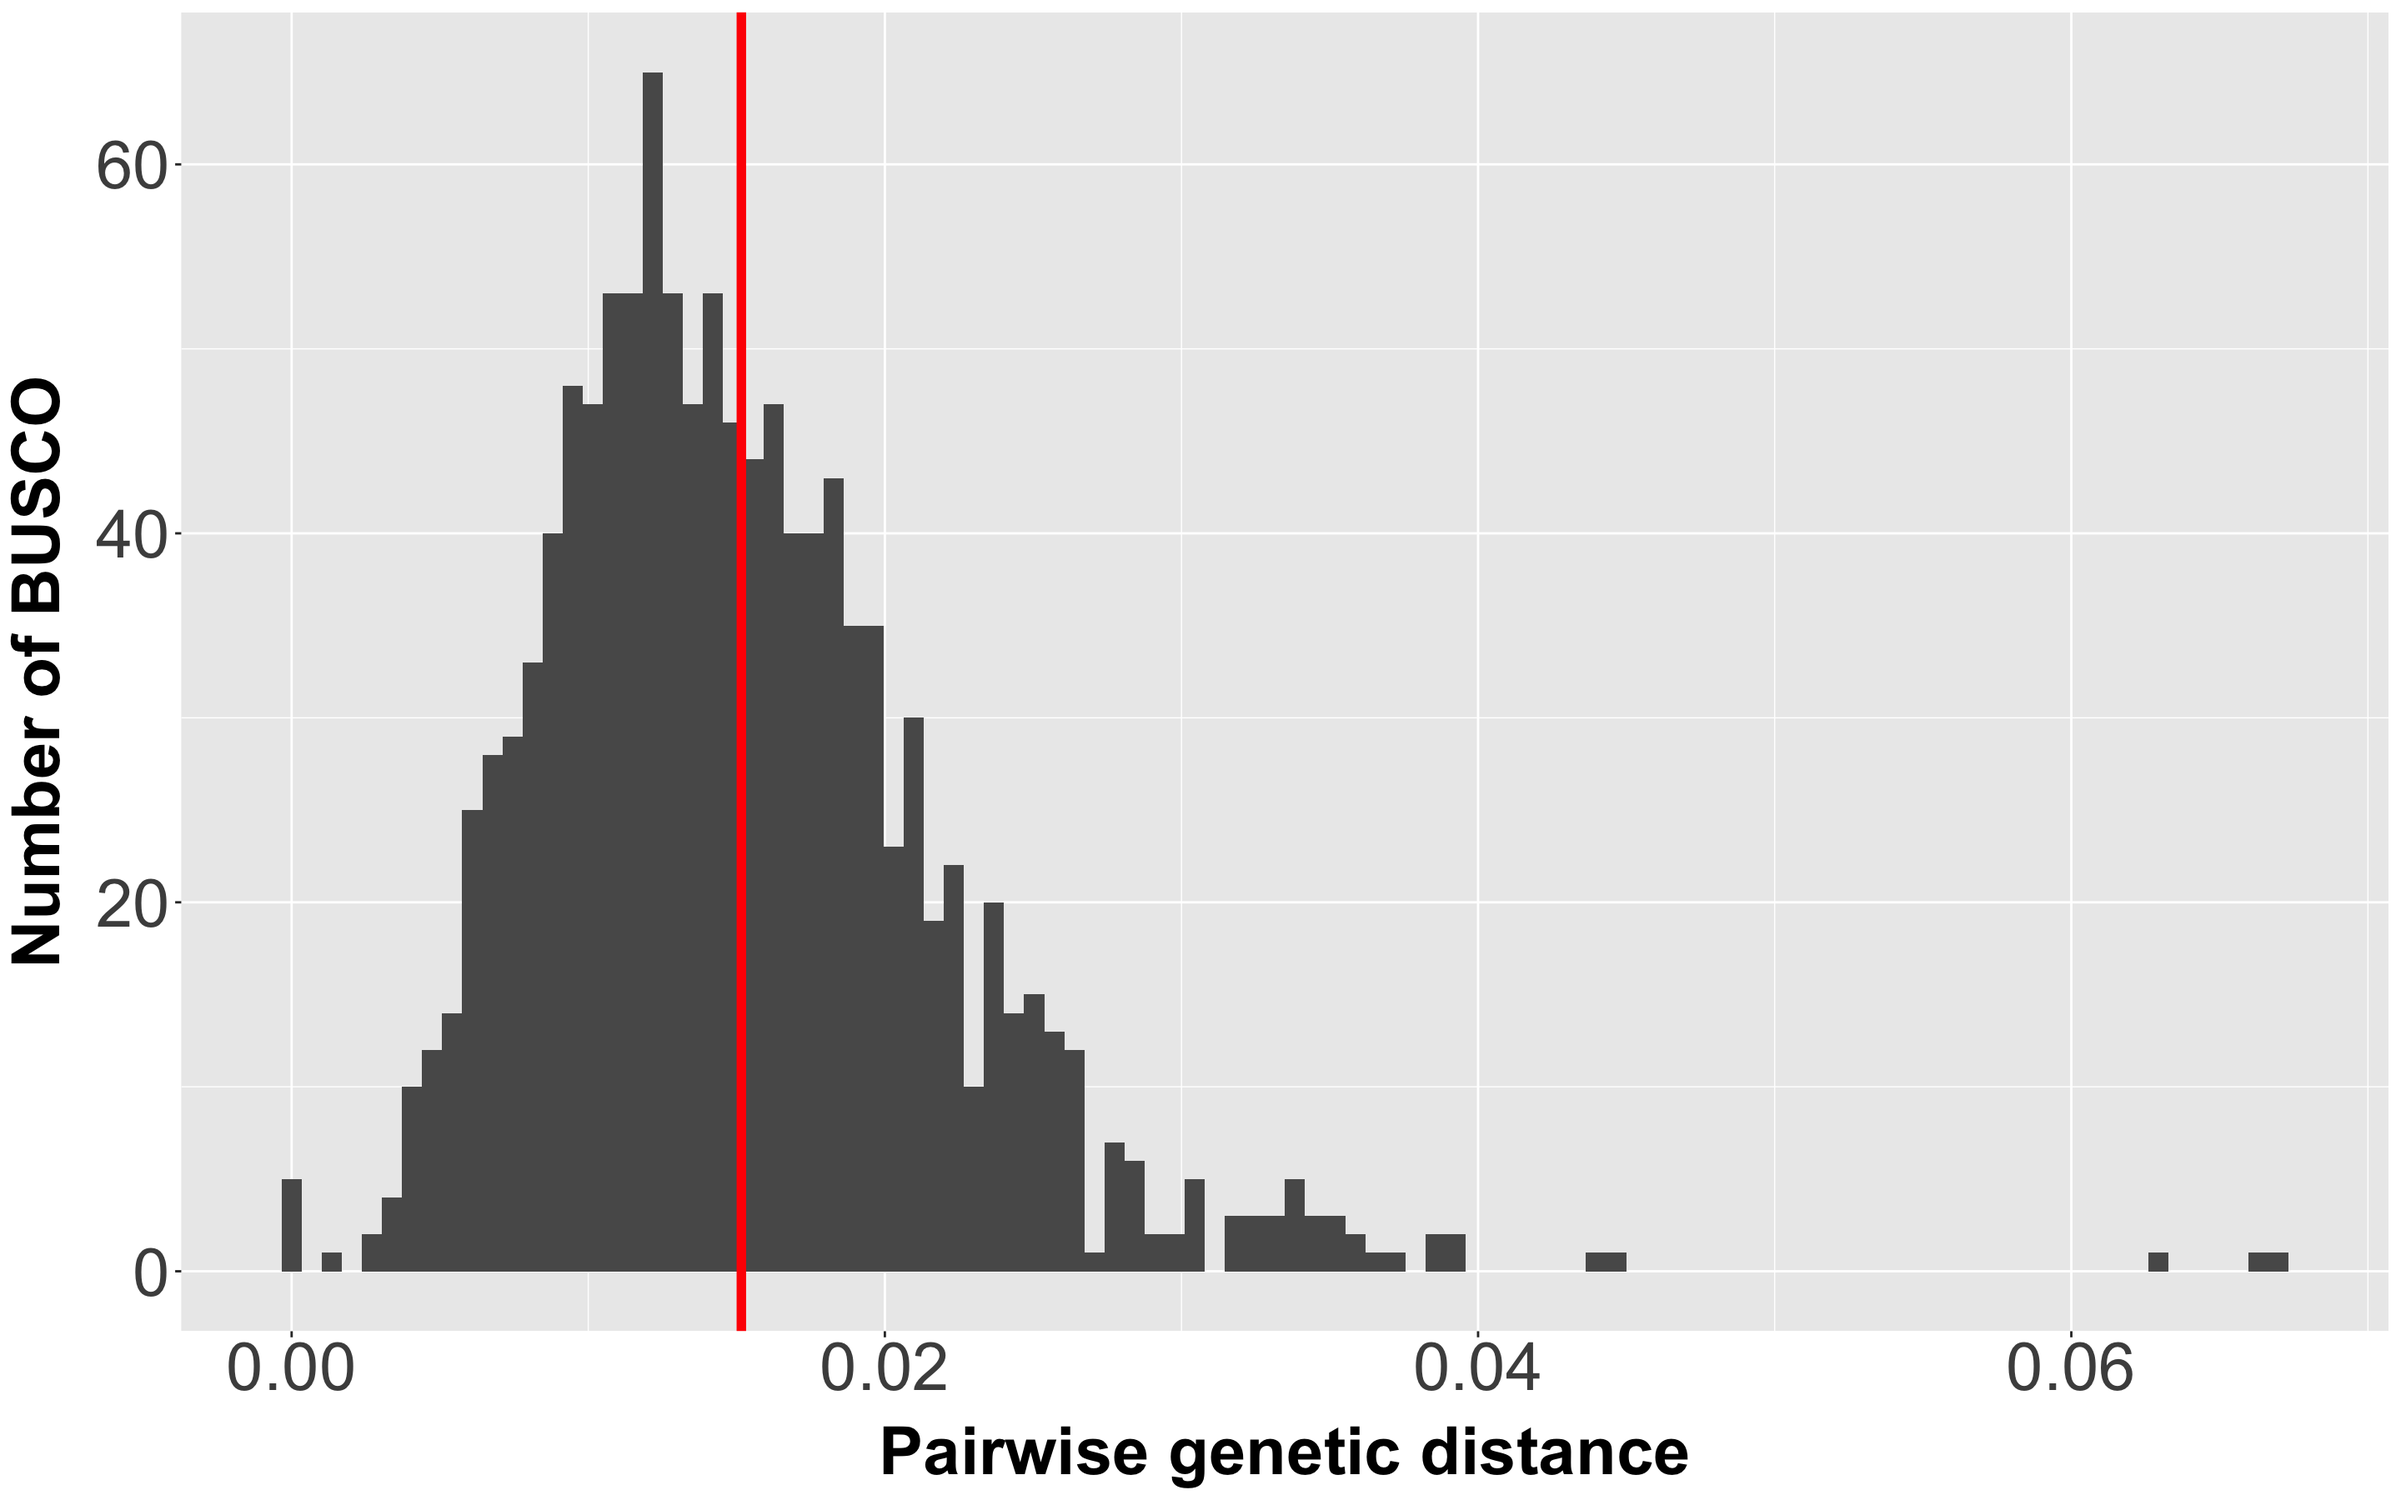
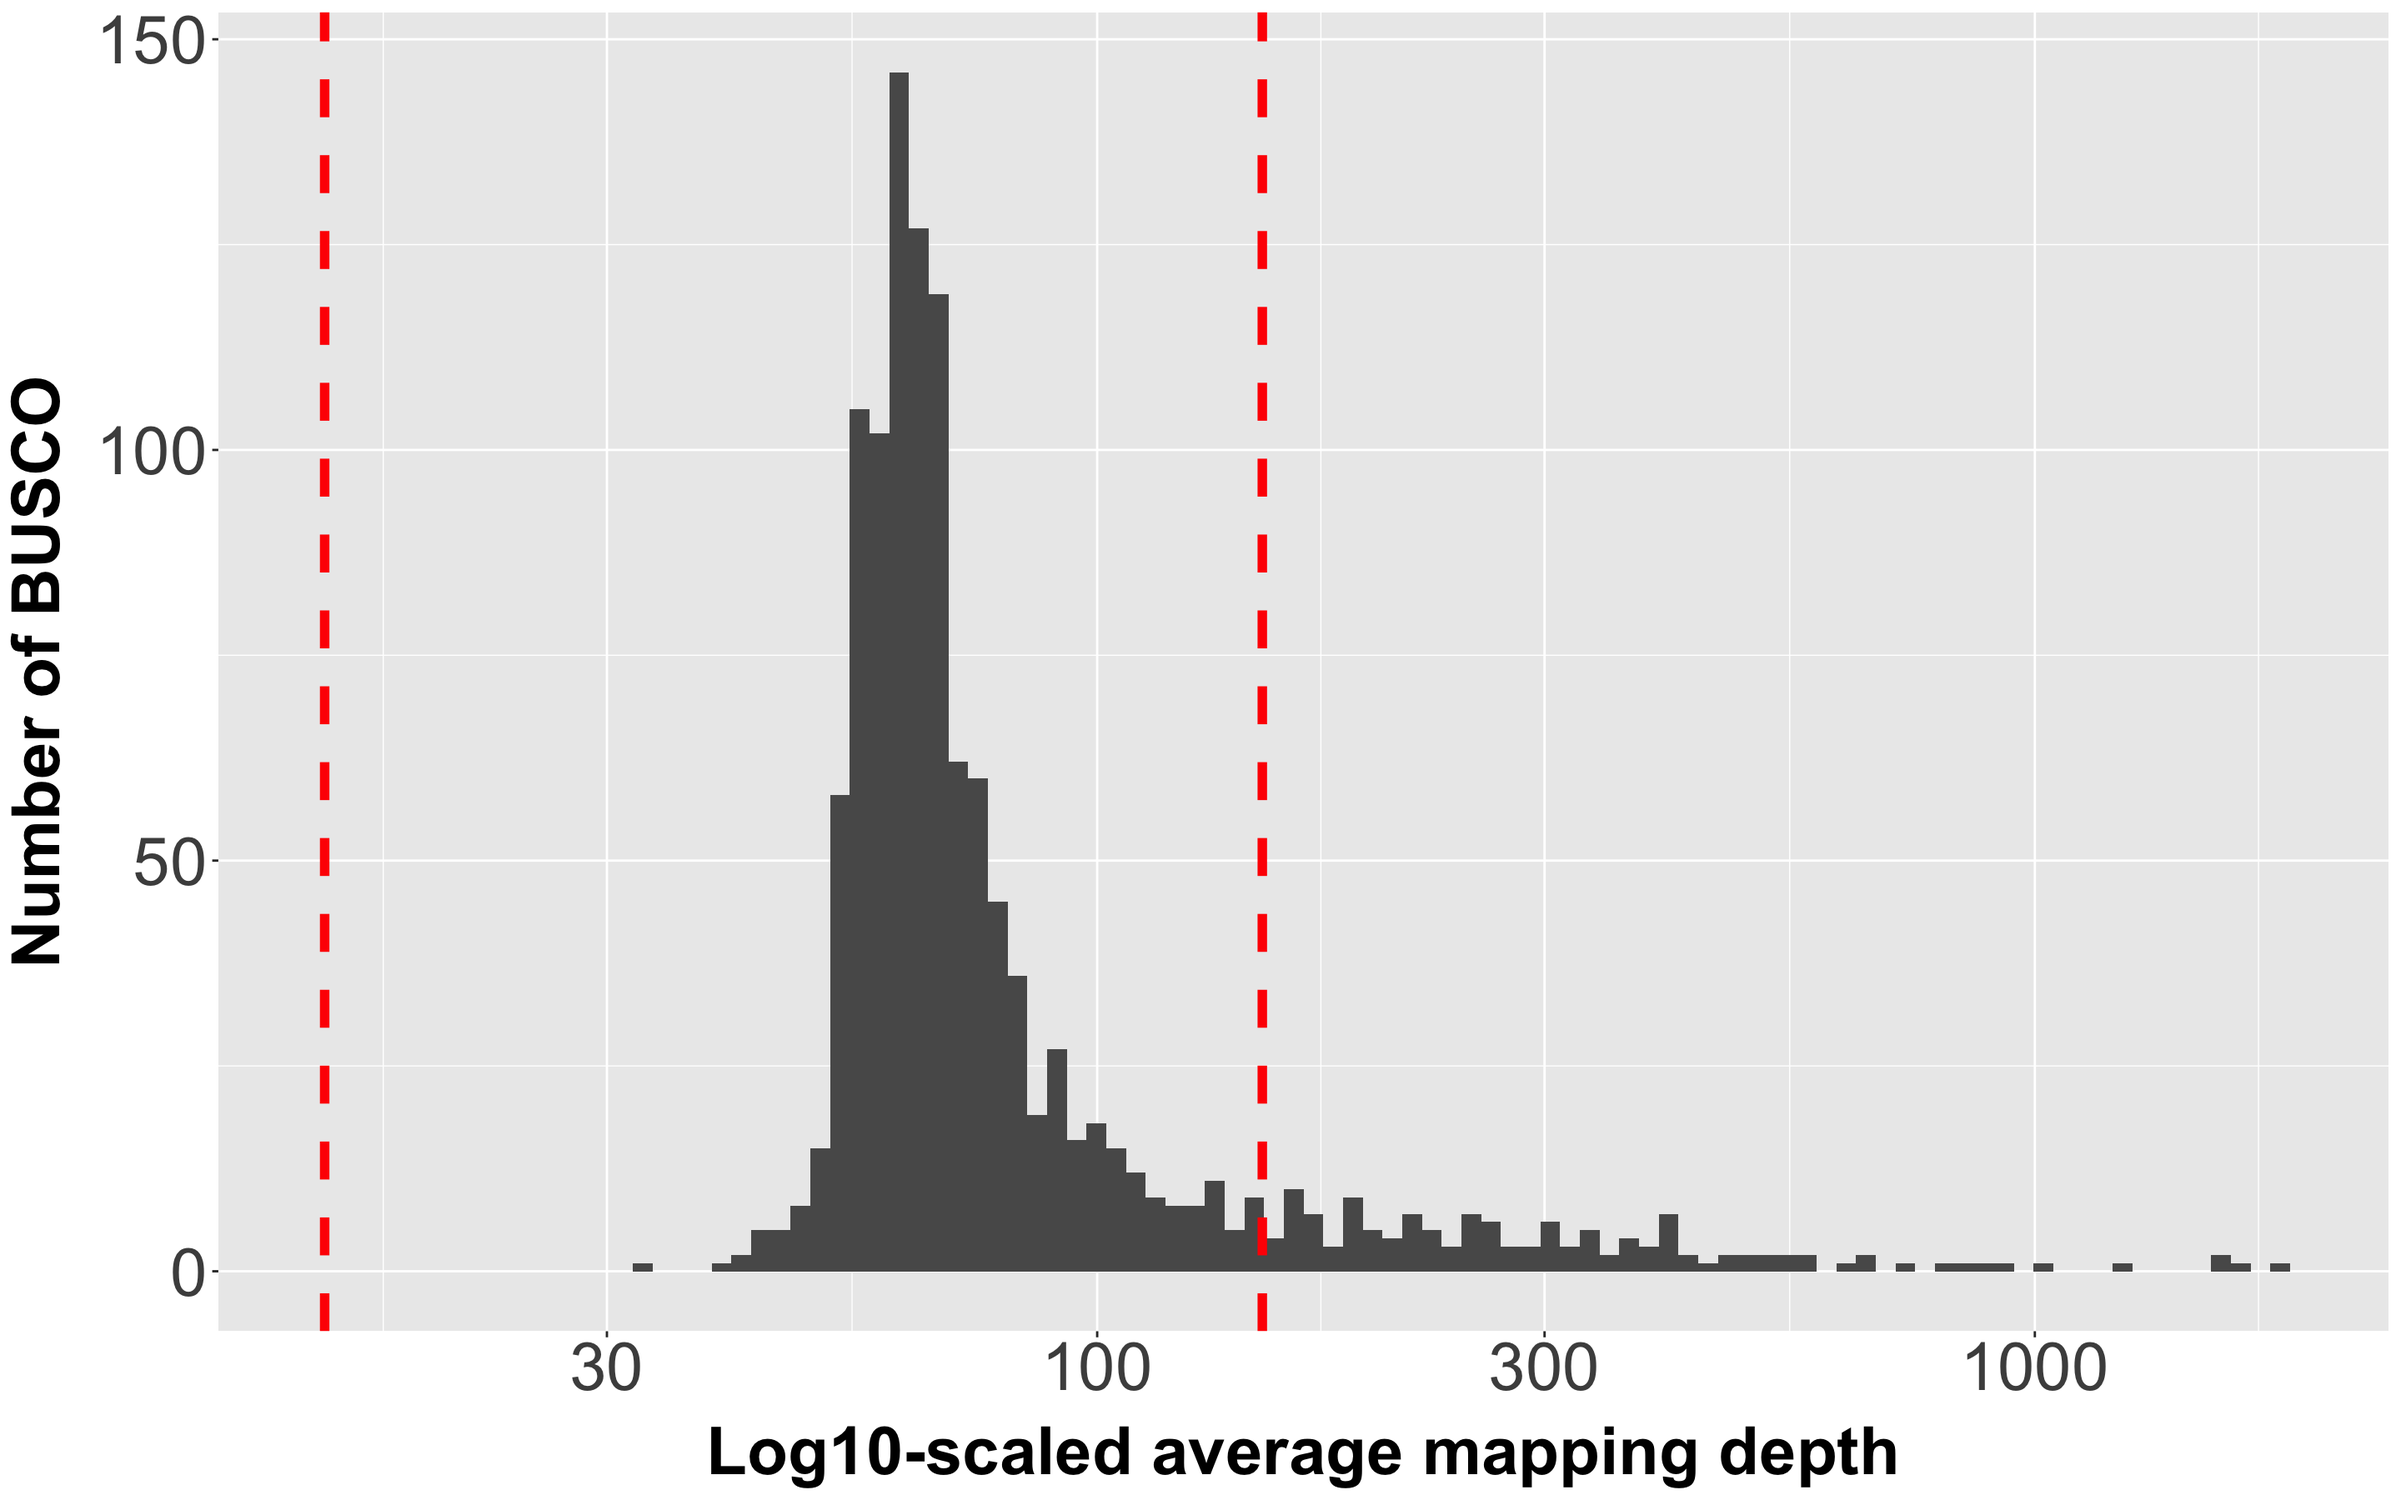
Update example README.md

diff --git a/example/README.md b/example/README.md
@@ -6,9 +6,10 @@ Meelup mallee (*E. x phylacis*) is an F1 hybrid between two eucalypt species, wh
 - <a href="#02">Running CAPTUS</a>
 - <a href="#03">Running ShortReadsPhaser</a>
 - <a href="#04">Results: Mapping</a>
-- <a href="#05">Results: Species Tree Inference</a>
-    - <a href="#05a">60x-coverage data</a>
-    - <a href="#05b">30x-coverage data</a>
+- <a href="#05">Results: Phasing</a>
+- <a href="#06">Results: Species Tree Inference</a>
+    - <a href="#06a">60x-coverage data</a>
+    - <a href="#06b">30x-coverage data</a>
 
 ## <a id="01">Raw Data</a>
 The raw short-read data are located at `/home/raw_data/MM/2018_short_reads/`. Each sample is labelled as `MMAA`, `MMAB`, `MMAC`, `MMBA`, etc., where:
@@ -68,45 +69,7 @@ min_alwr <- 0.8
 min_consensus_thresh <- 1.0
 ```
 
-## <a id="05">Results: Mapping</a>
-
-### Calculating expected pairwise genetic distance between *E. decipiens* and *E. relicta*
-First, we calculated the pairwise genetic distance between `decipiens_CCA1310` (i.e., a representative sample of *E. decipiens*) and `relicta_CCA5717` (i.e., a closely-related species with *E. virginea*) using the BUSCO alignments from Ivan et al. (2026):
-```
-library(ape)
-
-files  <- list.files("/home/jeremias/captus/busco_alignments", full.names=TRUE)
-ls_ref <- c("decipiens_CCA1310", "relicta_CCA5717")
-
-# iterate over BUSCO loci
-res <- do.call(rbind, lapply(files, function(f) {
-  # open the BUSCO alignment
-  aln <- read.dna(f, format="fasta", as.character=TRUE)
-  if (!all(ls_ref %in% rownames(aln))) {
-    return(NULL)
-  }
-
-  # extract the two reference samples
-  m <- aln[ls_ref, , drop=FALSE]
-  m <- tolower(m)
-
-  # count the number of sites with no missing data
-  ok <- colSums(matrix(m %in% c("a", "c", "g", "t"), nrow=2)) == 2
-
-  # return the number of sites per locus
-  data.frame(locus = basename(f),
-             diffs = sum(m[1, ok] != m[2, ok]),
-             sites = sum(ok))
-}))
-
-# calculate the pairwise genetic distance per locus
-res$p <- res$diffs / res$sites
-```
-
-Across 1,186 BUSCO where *both* were found, the average pairwise genetic distance between the two samples is 1.5% (SD=0.7%; Fig.1). This means that there is on average **one heterozygous site every ~70 bp**.
-
-![Figure 1. Distribution of pairwise genetic distance between decipiens_CCA1310 and relicta_CCA5717 across 1,186 BUSCO loci.](./figures/fig2.png)
-*<b>Figure 1.</b> Distribution of pairwise genetic distance between `decipiens_CCA1310` and `relicta_CCA5717` across 1,186 BUSCO loci. Vertical red line denotes the average across loci.*
+## <a id="04">Results: Mapping</a>
 
 ### Mapping 60x-coverage data to the 1,187 CAPTUS best hits
 After running CAPTUS on the 60x-coverage data, we mapped the cleaned short reads to the 1,187 CAPTUS best hits. We then assessed the mapping statistics as follows:
@@ -152,25 +115,57 @@ $ samtools flagstat phylacis.dedup.bam
   329849 + 0 with mate mapped to a different chr (mapQ>=5)
 ```
 
-GenomeScope2 estimated the genome size of meelup mallee to be roughly <a href="https://github.com/roblanf/MM_genome">530Mb</a> based on long sequencing reads, which means that the total length of the 1,187 BUSCO loci (~6.1Mb) accounts for ~1.2% of the genome. After deduplication, the retained reads represent ~2.8% of the total reads, which is ~2.3x higher than the expectation. In other words, the filtered BAM has roughly half off‑target reads (i.e., reads that do not come from the BUSCO loci). 
+GenomeScope2 estimated the genome size of meelup mallee to be roughly <a href="https://github.com/roblanf/MM_genome">530Mb</a> based on long sequencing reads, which means that the total length of the 1,187 BUSCO loci (~6.1Mb) accounts for **~1.2% of the genome**. After deduplication, the retained reads represent ~2.8% of the total reads, which is ~2.3x higher than expectation. In other words, the filtered BAM has over half off‑target reads (i.e., reads that do not come from the BUSCO loci). 
 
-We then calculated the per-locus average mapping depth to assess if the extra mapped reads are localised or spread evenly across all loci. To do this, we first calculated the mapping depth for each CDS block using `samtools depth -a phylacis.dedup.bam`. Note that a single locus may contain multiple CDS blocks. The median mapping depth across all blocks is 62x, but the average is 105.89x, which reflects that the off-target reads are concentrated in a minority of positions. If we calculated the per-locus average mapping depth across all CDS blocks, there are 133 BUSCO loci with >=150 average depth (Fig. 2).
+We then calculated the per-locus average mapping depth to assess if the extra mapped reads are localised or spread evenly across all loci. To do this, we first calculated the mapping depth of each CDS block using `samtools depth -a phylacis.dedup.bam`. Note that a single locus may contain multiple CDS blocks. The median mapping depth across all blocks is 62x, but the average is 105.89x, which reflects that the off-target reads are concentrated in a minority of positions. If we calculated the per-locus average mapping depth across all CDS blocks, there are 133 BUSCO loci with >=150 average depth (Fig. 1).
 
-![Figure 2. Per-locus average mapping depth of the meelup mallee short-read data.](./figures/fig1.png)
-*<b>Figure 2.</b> Per-locus average mapping depth of the meelup mallee short-read data. Vertical red dashed lines denote the minimum and maximum depths during variant calling.*
+![Figure 1. Per-locus average mapping depth of the meelup mallee short-read data.](./figures/fig1.png)
+*<b>Figure 1.</b> Per-locus average mapping depth of the meelup mallee short-read data. Vertical red dashed lines denote the minimum and maximum depths during variant calling.*
 
-## <a id="05">Results: Species Tree Inference</a>
+## <a id="05">Results: Phasing</a>
 
-### <a id="05a">60x-coverage data</a>
-We first retrieved all CDS blocks across the 1,187 BUSCO loci, and filtered out four loci with all Ns after remapping (including `167757at71240` with no haplotype recovered):
+### Calculating pairwise genetic distance between *E. decipiens* and *E. relicta*
+First, we calculated the pairwise genetic distance between `decipiens_CCA1310` (i.e., a representative sample of *E. decipiens*) and `relicta_CCA5717` (i.e., a closely-related species with *E. virginea*) using the BUSCO alignments from Ivan et al. (2026):
+```
+library(ape)
 
-| Step         | #BUSCO | #Blocks |
-| ------------ | -----: | ------: |
-| Initial      | 1,187  | 4,713   |
-| Filtered out | 4      | 7       |  
-| Passed       | 1,183  | 4,676   |
+files  <- list.files("/home/jeremias/captus/busco_alignments", full.names=TRUE)
+ls_ref <- c("decipiens_CCA1310", "relicta_CCA5717")
 
-After running EPA-NG, we found that the most common parental lineages recovered from the gene trees are `Curviptera` and `Falcatae`. Across the 4,676 blocks, there were 3,205 blocks unresolved at series-level (`taxonomic_rank==3`), while the rest (1,471 blocks) can be categorised as:
+# iterate over BUSCO loci
+res <- do.call(rbind, lapply(files, function(f) {
+  # open the BUSCO alignment
+  aln <- read.dna(f, format="fasta", as.character=TRUE)
+  if (!all(ls_ref %in% rownames(aln))) {
+    return(NULL)
+  }
+
+  # extract the two reference samples
+  m <- aln[ls_ref, , drop=FALSE]
+  m <- tolower(m)
+
+  # count the number of sites with no missing data
+  ok <- colSums(matrix(m %in% c("a", "c", "g", "t"), nrow=2)) == 2
+
+  # return the number of sites per locus
+  data.frame(locus = basename(f),
+             diffs = sum(m[1, ok] != m[2, ok]),
+             sites = sum(ok))
+}))
+
+# calculate the pairwise genetic distance per locus
+res$p <- res$diffs / res$sites
+```
+
+Across 1,186 BUSCO where *both* were found, the average pairwise genetic distance between the two samples is 1.5% (SD=0.7%; Fig.2). This means that there is on average **one heterozygous site every ~70 bp**.
+
+![Figure 2. Distribution of pairwise genetic distance between decipiens_CCA1310 and relicta_CCA5717 across 1,186 BUSCO loci.](./figures/fig2.png)
+*<b>Figure 2.</b> Distribution of pairwise genetic distance between `decipiens_CCA1310` and `relicta_CCA5717` across 1,186 BUSCO loci. Vertical red line denotes the average across loci.*
+
+### Calculating the proportion of called variants
+Across 1,187 BUSCO loci (4,713 CDS blocks), we excluded four BUSCO loci (7 CDS blocks) with no recovered haplotypes. We then ran EPA-NG on individual blocks, and found that the most common parental lineages recovered are `Curviptera` and `Falcatae` (which represent the series of *E. virginea* and *E. decipiens*, respectively).
+
+Across the 4,676 blocks, there were 3,205 blocks unresolved at series-level (`taxonomic_rank==3`), while the rest (1,471 blocks) can be categorised as:
 
 | Criterion                                       | #Blocks |
 | ----------------------------------------------- | ------: |
@@ -178,11 +173,17 @@ After running EPA-NG, we found that the most common parental lineages recovered 
 | Both haplotypes have alwr < min_alwr            | 743     | 
 | Both haplotypes have the same lineages          | 7       |
 
-Among 721 blocks, 117 blocks (across 114 BUSCO loci) have confident placement for both haplotypes. Thus, we inferred concatenated species trees using two sets of loci:
-- **114 BUSCO** with confident placement for both haplotypes
-- **671 BUSCO** with confident placement for either or both haplotypes
+Among 721 blocks, 117 blocks (across 114 BUSCO loci) have confident placement for both haplotypes. Following the previous steps, we calculated the pairwise genetic distance between the two haplotypes across 114 loci, and compared its distribution with the two parental lineages (Figs. 3-4).
 
-Both sets resulted in identical placement of the two haplotypes: one as sister to `decipiens_CCA1310` and the other as sister to `relicta_CCA5717`, while the unphased haplotype becomes the sister to `relicta_CCA5717` with a slightly longer branch length.
+![Figure 3. Distribution of pairwise genetic distances of the two meelup mallee haplotypes and one of the two parental lineages across 114 BUSCO.](./figures/fig3.png)
+*<b>Figure 3.</b> Distribution of pairwise genetic distances of the two meelup mallee haplotypes and one of the two parental lineages across 114 BUSCO.*
+
+![Figure 4. Correlation between pairwise genetic distances of the two meelup mallee haplotypes and those of the two parental lineages across 114 BUSCO.](./figures/fig4.png)
+*<b>Figure 4.</b> Correlation between pairwise genetic distances of the two meelup mallee haplotypes and those of the two parental lineages across 114 BUSCO. Dashed line represents x=y line.*
+
+## <a id="06">Results: Species Tree Inference</a>
+- Number of BUSCO with confident placement for both haplotypes: **114**
+- Number of BUSCO with confident placement for either or both haplotypes: **671**
 - Phylogenetic placements on `114-BUSCO` tree (branch lengths):
     - Haplotype one: sister to `decipiens_CCA1310` (0.0036)
     - Haplotype two: sister to `relicta_CCA5717` (0.0064)
@@ -191,19 +192,6 @@ Both sets resulted in identical placement of the two haplotypes: one as sister t
     - Haplotype one: sister to `decipiens_CCA1310` (0.0044)
     - Haplotype two: sister to `relicta_CCA5717` (0.0084)
     - Unphased (CAPTUS best hits): sister to `relicta_CCA5717` (0.0090)
-
-### <a id="05b">30x-coverage data</a>
-We did the same analyses on the dataset with ~30x coverage, and recovered similar results:
-- Number of BUSCO with confident placement for both haplotypes: **107**
-- Number of BUSCO with confident placement for either or both haplotypes: **675**
-- Phylogenetic placements on `107-BUSCO` tree (branch lengths):
-    - Haplotype one: sister to `decipiens_CCA1310` (0.0034)
-    - Haplotype two: sister to `relicta_CCA5717` (0.0065)
-    - Unphased (CAPTUS best hits): sister to `relicta_CCA5717` (0.0084)
-- Phylogenetic placements on `675-BUSCO` tree (branch lengths):
-    - Haplotype one: sister to `decipiens_CCA1310` (0.0046)
-    - Haplotype two: sister to `relicta_CCA5717` (0.0086)
-    - Unphased (CAPTUS best hits): sister to `relicta_CCA5717` (0.0092)
 
 ---
 *Last update: 19 October 2026 by Jeremias Ivan*
